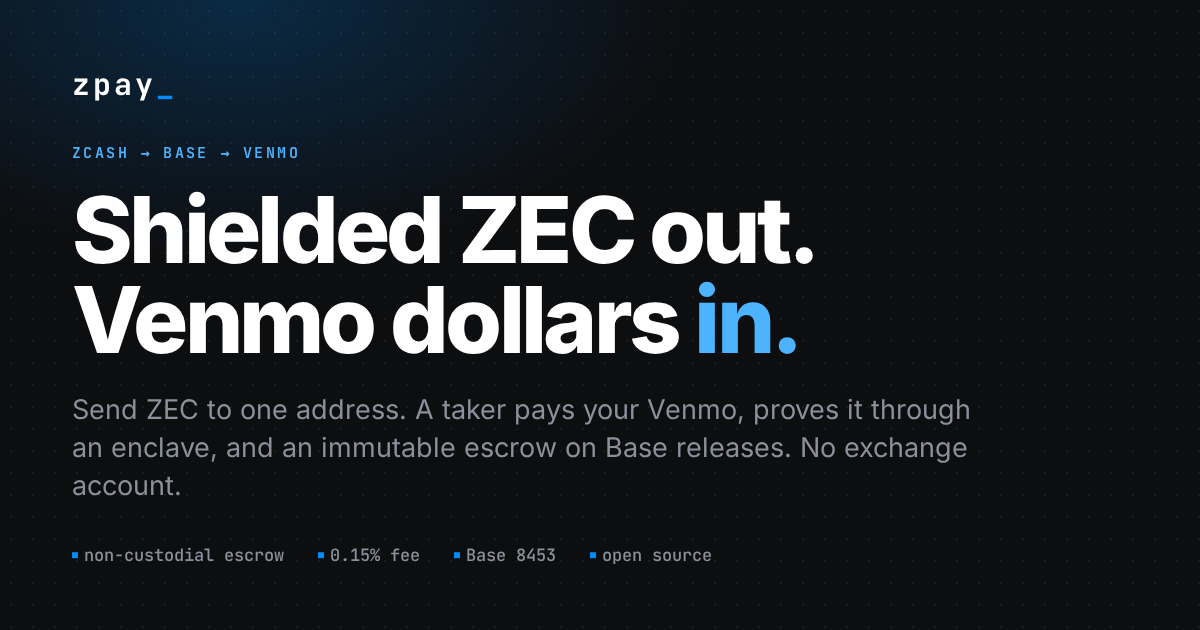
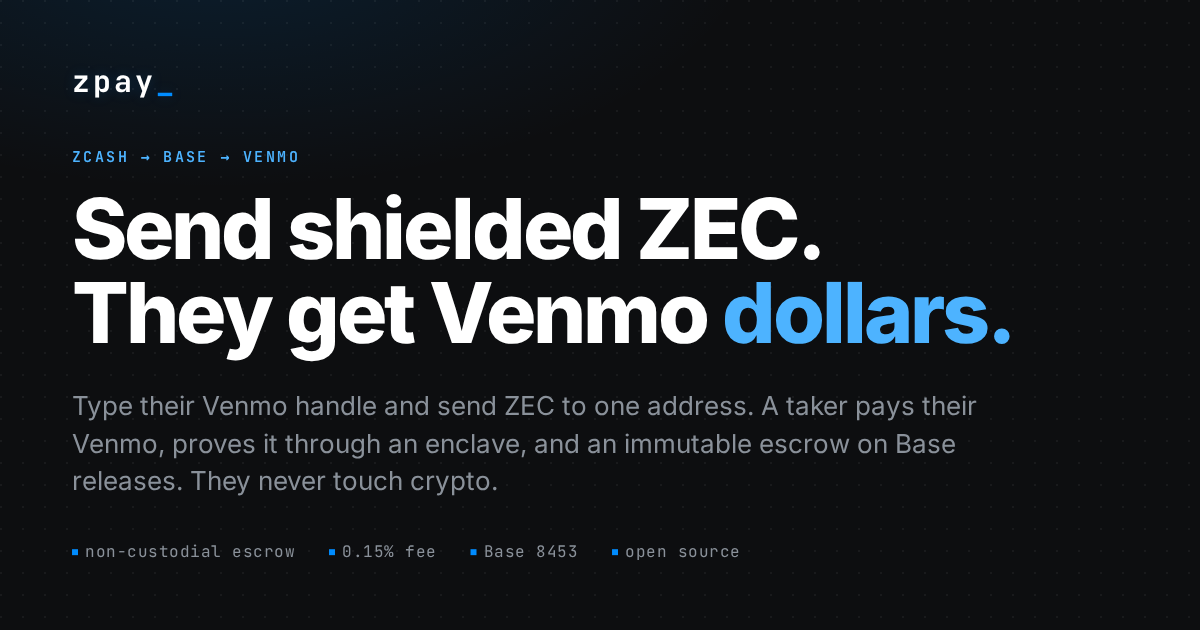
Reframe the launch page around paying someone else
The page addressed the reader as the person receiving the dollars, so every
section read as a cash-out. zpay is a way to pay a normal person from a
shielded wallet: the reader types someone else's Venmo handle, sends ZEC to
one address, and the recipient gets dollars in an app they already use
without touching crypto. Paying your own handle is the same flow and is now
one sentence under how-it-works instead of the premise.

Title, meta tags, hero, the quote card labels, steps 01 and 03, the custody
intro, the fees heading and the limits all now speak to the sender. The
diagram box reads "their Venmo", which is the label the second post's image
already changed, so the two agree again. The handle-visibility limit names
the recipient's handle, since that is what the escrow hashes, and says the
same applies when the handle is your own. The social card is re-rendered
with the new headline; it is a screenshot of a scratch page built from the
site's own fonts and palette.

No factual claim moved: 0.15% fee, mainnet since 2026-09-01, no proxy, no
upgrade path, rescue and withdraw signed by the sender's key.

diff --git a/frontend/index.html b/frontend/index.html
@@ -3,16 +3,16 @@
 <head>
 <meta charset="utf-8">
 <meta name="viewport" content="width=device-width, initial-scale=1">
-<title>zpay: shielded ZEC to Venmo</title>
-<meta name="description" content="Send shielded Zcash, get paid on Venmo. An immutable escrow on Base, a payment proof from zk-p2p's enclave, no exchange account.">
-<meta property="og:title" content="zpay: shielded ZEC to Venmo">
-<meta property="og:description" content="Send ZEC to one address. A taker pays your Venmo, proves it, and the escrow releases. No exchange account, no custodian holding your dollars.">
+<title>zpay: pay a Venmo handle with shielded ZEC</title>
+<meta name="description" content="Type someone's Venmo handle, send shielded Zcash, and dollars land in their Venmo. An immutable escrow on Base, a payment proof from zk-p2p's enclave, no exchange account on either end.">
+<meta property="og:title" content="zpay: pay a Venmo handle with shielded ZEC">
+<meta property="og:description" content="Type their Venmo handle and send ZEC to one address. A taker pays their Venmo, proves it, and the escrow releases. They never touch crypto. No custodian holding the dollars.">
 <meta property="og:type" content="website">
 <meta property="og:url" content="https://d2acgjt7j1yqe8.cloudfront.net/">
 <meta property="og:image" content="https://d2acgjt7j1yqe8.cloudfront.net/og.png">
 <meta name="twitter:card" content="summary_large_image">
-<meta name="twitter:title" content="zpay: shielded ZEC to Venmo">
-<meta name="twitter:description" content="Send ZEC to one address. A taker pays your Venmo, proves it, and the escrow releases. No exchange account, no custodian holding your dollars.">
+<meta name="twitter:title" content="zpay: pay a Venmo handle with shielded ZEC">
+<meta name="twitter:description" content="Type their Venmo handle and send ZEC to one address. A taker pays their Venmo, proves it, and the escrow releases. They never touch crypto. No custodian holding the dollars.">
 <meta name="twitter:image" content="https://d2acgjt7j1yqe8.cloudfront.net/og.png">
 <meta name="theme-color" content="#0d0e10">
 <link rel="stylesheet" href="site.css">
@@ -42,12 +42,12 @@
   <div class="wrap">
     <div>
       <span class="label blue">Zcash &rarr; Base &rarr; Venmo</span>
-      <h1>Shielded ZEC out.<br>Venmo dollars <span class="blue">in.</span></h1>
+      <h1>Send shielded ZEC.<br>They get Venmo <span class="blue">dollars.</span></h1>
       <p class="lede">
-        Name a Venmo handle and send ZEC to one address. Your coins wait as USDC
-        in an <b>immutable escrow on Base</b> until a taker pays your Venmo and
-        proves it through zk-p2p's enclave. No exchange account. No custodian
-        holding your dollars.
+        Type their Venmo handle and send ZEC to one address. Your coins wait as
+        USDC in an <b>immutable escrow on Base</b> until a taker pays that Venmo
+        and proves it through zk-p2p's enclave. They never touch crypto. No
+        exchange account on either end. No custodian holding the dollars.
       </p>
 
       <div class="facts">
@@ -65,7 +65,7 @@
       </div>
 
       <div class="hero-cta">
-        <a class="btn primary" href="app/">Start an offramp</a>
+        <a class="btn primary" href="app/">Pay a Venmo handle</a>
         <a class="btn" href="#how">See how it settles</a>
       </div>
     </div>
@@ -85,7 +85,7 @@
       </div>
 
       <div class="field">
-        <span class="label" id="picker-label">paid out on</span>
+        <span class="label" id="picker-label">they receive on</span>
         <div class="picker">
           <button class="picker-btn" id="picker-btn" type="button" aria-haspopup="listbox" aria-expanded="false" aria-labelledby="picker-label">
             <span class="vmark">v</span> Venmo <span class="chev">&#9662;</span>
@@ -95,11 +95,11 @@
       </div>
 
       <div class="quote-out" id="q-out" hidden>
-        <div class="stat wide"><span class="k label">venmo payout</span><span class="v big" id="q-venmo">&mdash;</span></div>
+        <div class="stat wide"><span class="k label">lands in their venmo</span><span class="v big" id="q-venmo">&mdash;</span></div>
         <div class="stat"><span class="k label">usdc in escrow</span><span class="v" id="q-usdc">&mdash;</span></div>
         <div class="stat"><span class="k label">rate usdc/zec</span><span class="v" id="q-rate">&mdash;</span></div>
       </div>
-      <div class="quote-note" id="q-note">type an amount to see the Venmo payout</div>
+      <div class="quote-note" id="q-note">type an amount to see what lands in their Venmo</div>
 
       <a class="btn primary" id="q-start" href="app/">Continue in the app</a>
       <p class="quote-fine">Quoted by 1Click, net of the <span data-fee>0.15%</span> fee. A fresh quote is taken when you start.</p>
@@ -134,15 +134,16 @@
     <h2>Two legs, one contract, one proof</h2>
     <p class="intro">
       The swap leg turns ZEC into USDC on Base. The payment leg turns that USDC
-      into a Venmo transfer. zpay's contract sits between them and only ever pays
-      out against a proof.
+      into a Venmo transfer to the handle you typed. zpay's contract sits between
+      them and only ever pays out against a proof. Cashing out to yourself is the
+      same flow with your own handle.
     </p>
 
     <div class="steps">
       <div class="step">
         <span class="n">01</span>
-        <h3>Name a handle, get an address</h3>
-        <p>Enter your Venmo username and a ZEC amount. zpay registers the handle with zk-p2p's curator and opens a session whose payee is fixed to that hash. You get one Zcash deposit address.</p>
+        <h3>Type their handle, get an address</h3>
+        <p>Enter the recipient's Venmo username and a ZEC amount. zpay registers the handle with zk-p2p's curator and opens a session whose payee is fixed to that hash. One Zcash deposit address comes back, and that is where you send.</p>
         <div class="rail"><span class="tok">@handle</span><span class="arr">&rarr;</span><span class="tok">payee hash</span><span class="arr">&rarr;</span><span class="tok">session</span></div>
       </div>
       <div class="step">
@@ -153,16 +154,16 @@
       </div>
       <div class="step">
         <span class="n">03</span>
-        <h3>A taker pays you, then proves it</h3>
-        <p>A taker stakes, sends the dollars from their own Venmo, and asks zk-p2p's Nitro enclave to attest the payment. The on-chain verifier checks that signature and releases the USDC to them. By then the dollars are already in your Venmo.</p>
+        <h3>A taker pays them, then proves it</h3>
+        <p>A taker stakes, sends the dollars from the taker's own Venmo account to the handle you typed, and asks zk-p2p's Nitro enclave to attest the payment. The on-chain verifier checks that signature and releases the USDC to the taker. By then the dollars are already in the recipient's Venmo.</p>
         <div class="rail"><span class="tok venmo">Venmo</span><span class="arr">&rarr;</span><span class="tok">enclave attestation</span><span class="arr">&rarr;</span><span class="tok usdc">release</span></div>
       </div>
     </div>
 
     <div class="flow" aria-label="settlement diagram">
       <svg viewBox="0 0 1000 250" role="img" aria-labelledby="flow-title">
-        <title id="flow-title">ZEC flows to a 1Click deposit, arrives as USDC on the zpay contract, is posted to zk-p2p escrow, and is released to the taker who paid Venmo and presented an enclave attestation.</title>
-        <!-- you -->
+        <title id="flow-title">ZEC leaves a shielded wallet, is swapped to USDC on Base by 1Click, is posted to zk-p2p escrow by the zpay contract with the payee fixed to the recipient's Venmo handle, and is released to the taker who paid that Venmo and presented an enclave attestation.</title>
+        <!-- you, the sender -->
         <rect class="box zec" x="20" y="60" width="150" height="70" rx="4"/>
         <text x="95" y="90" text-anchor="middle" font-size="14" font-weight="700">you</text>
         <text class="t-dim" x="95" y="112" text-anchor="middle" font-size="11">shielded wallet</text>
@@ -196,14 +197,14 @@
         <text class="t-dim" x="785" y="216" text-anchor="middle" font-size="11">stakes, pays, proves</text>
 
         <rect class="box blue" x="460" y="170" width="180" height="60" rx="4"/>
-        <text class="t-blue" x="550" y="196" text-anchor="middle" font-size="14" font-weight="700">your Venmo</text>
+        <text class="t-blue" x="550" y="196" text-anchor="middle" font-size="14" font-weight="700">their Venmo</text>
         <text class="t-dim" x="550" y="216" text-anchor="middle" font-size="11">dollars arrive here</text>
 
         <rect class="box" x="230" y="170" width="170" height="60" rx="4"/>
         <text x="315" y="196" text-anchor="middle" font-size="14" font-weight="700">enclave</text>
         <text class="t-dim" x="315" y="216" text-anchor="middle" font-size="11">signs the attestation</text>
 
-        <!-- taker pays you -->
+        <!-- taker pays them -->
         <line class="line blue" x1="700" y1="200" x2="642" y2="200" stroke-width="1.5"/>
         <text class="t-blue" x="671" y="190" text-anchor="middle" font-size="10">pays</text>
         <!-- venmo -> enclave -->
@@ -223,15 +224,16 @@
     <span class="label blue">custody</span>
     <h2>Who holds what, and for how long</h2>
     <p class="intro">
-      Three parties touch value during an offramp. What each one can and
-      cannot do is read off the contract and the deploy, not off a promise.
+      Three parties touch value between your wallet and their Venmo. What each
+      one can and cannot do is read off the contract and the deploy, not off a
+      promise.
     </p>
 
     <div class="trust">
       <div class="card">
         <h3><span class="ic"></span>The contract</h3>
         <p>Deployed once, no proxy, no upgrade path. The only privileged action its owner has is naming the keeper, and the keeper can only open sessions and post your credited USDC to escrow. It cannot change the payee, and it cannot pay itself.</p>
-        <p>Your own key can pull the USDC back at any point before a taker claims it. Nobody else's signature is needed.</p>
+        <p>Your own key can pull the USDC back at any point before a taker claims it. Nobody else's signature is needed. The recipient signs nothing and needs no wallet.</p>
         <div class="who"><b>Holds:</b> USDC between arrival and the escrow deposit. <b>Escape hatch:</b> rescue and withdraw, signed by you.</div>
       </div>
       <div class="card">
@@ -252,7 +254,7 @@
 <section class="block" id="fees">
   <div class="wrap">
     <span class="label blue">fees</span>
-    <h2>What comes out of your payout</h2>
+    <h2>What comes out of what they receive</h2>
     <p class="intro">The quote above already nets these. Nothing is added after you send.</p>
 
     <table class="fees">
@@ -304,11 +306,11 @@
       </div>
       <div class="limit">
         <h3>Orders wait for a taker</h3>
-        <p>Nothing bounds how long a sell order sits in escrow. Small orders wait longest, because a taker pays the same gas and locks their stake for fourteen days whether the order is $5 or $500. You can withdraw any time before a taker claims it.</p>
+        <p>Nothing bounds how long a sell order sits in escrow, and nothing reaches their Venmo until a taker fills it. Small orders wait longest, because a taker pays the same gas and locks their stake for fourteen days whether the order is $5 or $500. You can withdraw any time before a taker claims it.</p>
       </div>
       <div class="limit">
-        <h3>Your handle is not private</h3>
-        <p>The escrow stores a hash of your Venmo username, and zk-p2p's curator answers that hash to anyone who asks. Treat the handle, amount and time of an order as public. The Zcash side ends at a transparent deposit address, so spend from a shielded pool if you care about the input.</p>
+        <h3>Their handle is not private</h3>
+        <p>The escrow stores a hash of the recipient's Venmo username, and zk-p2p's curator answers that hash to anyone who asks. Treat the handle, amount and time of a payment as public; if you pay your own handle, that is your handle. The Zcash side ends at a transparent deposit address, so spend from a shielded pool if you care about the input.</p>
       </div>
       <div class="limit">
         <h3>A floor, not a minimum that fills</h3>
@@ -316,7 +318,7 @@
       </div>
       <div class="limit">
         <h3>One session at a time per contract</h3>
-        <p>The contract keeps every session's USDC in one pot and credits arrivals to one open session, so the coordinator serves offramps in series. If yours is queued, the app says so.</p>
+        <p>The contract keeps every session's USDC in one pot and credits arrivals to one open session, so the coordinator serves payments in series. If yours is queued, the app says so.</p>
       </div>
     </div>
   </div>

diff --git a/frontend/site.js b/frontend/site.js
@@ -213,7 +213,7 @@ async function getQuote() {
   note.className = 'quote-note';
   if (v === '') {
     $('q-out').hidden = true;
-    note.textContent = 'type an amount to see the Venmo payout';
+    note.textContent = 'type an amount to see what lands in their Venmo';
     return;
   }
   if (!validZec(v)) {
